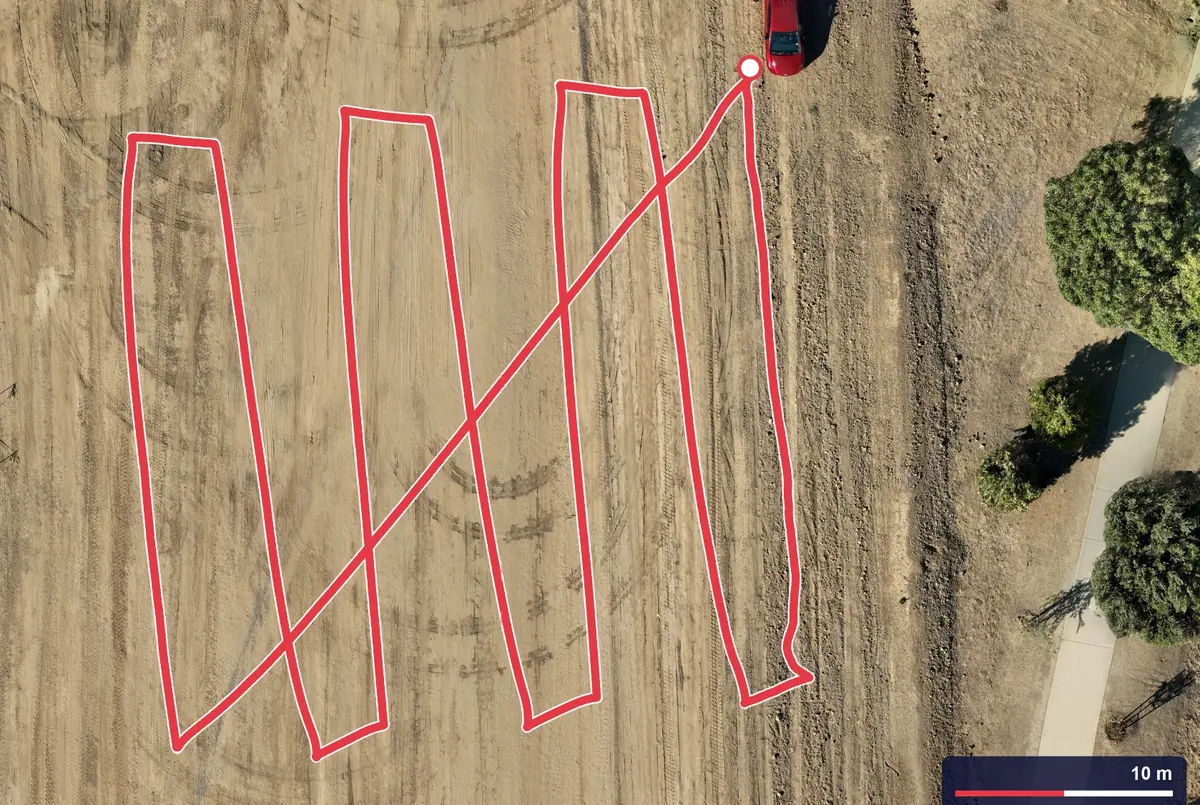
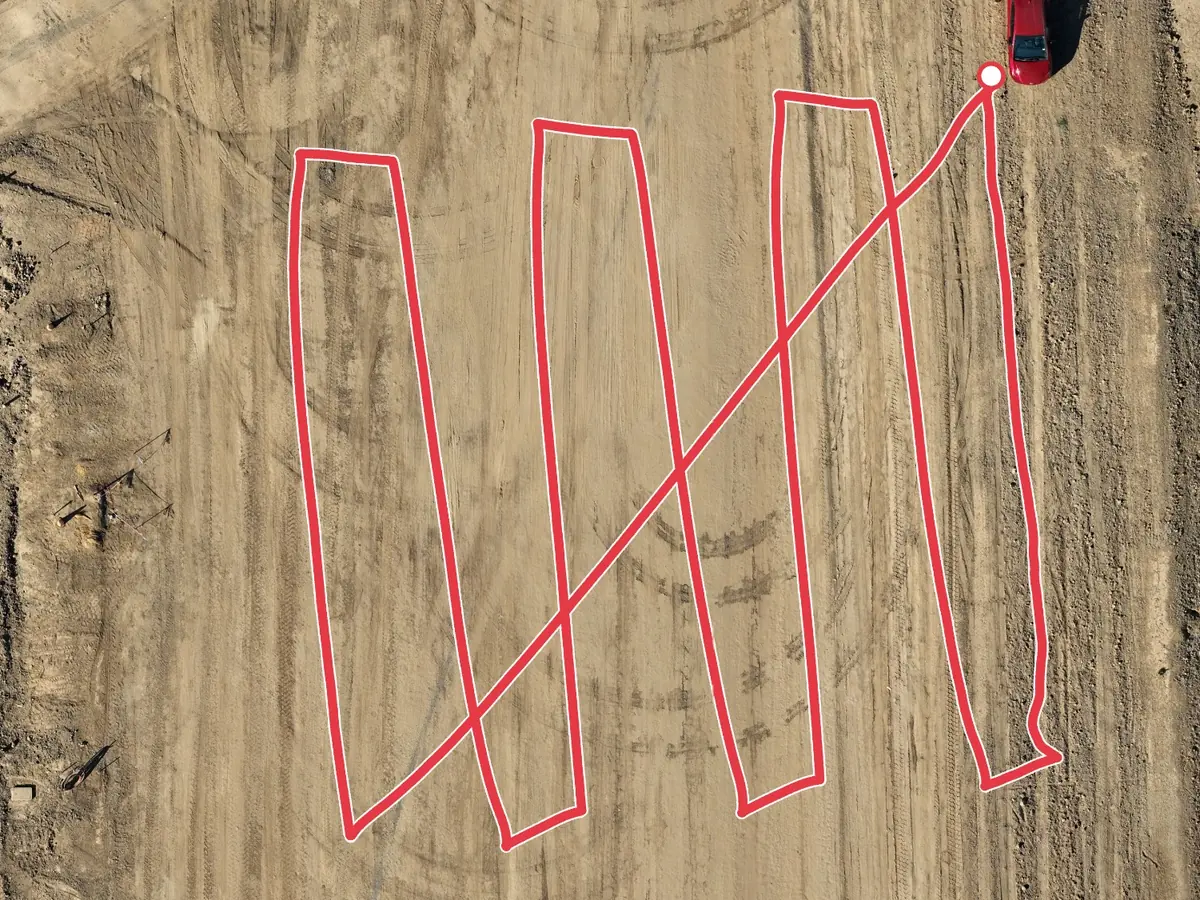
Make What we do mostly pictures
Same few sentences as before, no new information. Under them: the deck's
"one operator, many rovers" drawing in both halves (today against FRANK),
then two photographs, the test rover and the DEMO-1 survey track, each
with a red title and one line.

Claude-Session: https://claude.ai/code/session_015VctVZ6rm7wc8DrekM3xJw

diff --git a/what/index.html b/what/index.html
@@ -22,7 +22,7 @@
 <link rel="preconnect" href="https://fonts.googleapis.com" />
 <link rel="preconnect" href="https://fonts.gstatic.com" crossorigin />
 <link href="https://fonts.googleapis.com/css2?family=Russo+One&family=Inter:wght@400;500;600;700&display=swap" rel="stylesheet" />
-<link rel="stylesheet" href="/css/site.css?v=4" />
+<link rel="stylesheet" href="/css/site.css?v=5" />
 </head>
 <body>
 
@@ -68,23 +68,46 @@
       </p>
     </div>
 
-    <div class="solution-grid reveal">
-      <div class="sol-card">
-        <img class="shot" src="/img/what/field-rover.webp" width="1200" height="1009" alt="The FRANK test rover on loose sand." />
-        <h3>FRANK</h3>
-        <div class="expand">Flexible Recurrent Active-memory Neural Kernel</div>
-        <p>A learned policy of about 1M parameters. Perception, localisation, hazard detection and planning on a Raspberry Pi 5, on 58 mW.</p>
+    <div class="subsection reveal">
+      <h3 class="subsection-title">One operator, many rovers</h3>
+      <div class="compare">
+        <figure>
+          <figcaption class="tag">Today: one control room per rover</figcaption>
+          <div class="diagram">
+            <img src="/img/what/one-control-room-per-rover.webp" width="845" height="518" alt="A drive team on Earth exchanging commands and images with a single rover on the Moon." />
+            <span class="place" style="left:16%; top:40%">Earth</span>
+            <span style="right:54%; top:50%">commands</span>
+            <span style="left:57%; top:50%">images</span>
+            <span class="place end" style="right:4%; top:51%">Moon</span>
+          </div>
+        </figure>
+        <figure>
+          <figcaption class="tag red">With FRANK: one operator for the fleet</figcaption>
+          <div class="diagram">
+            <img src="/img/what/one-operator-for-the-fleet.webp" width="844" height="518" alt="One operator on Earth sending a single command to five rovers on the Moon, each driving its own route." />
+            <span class="place" style="left:16%; top:40%">Earth</span>
+            <span class="hl" style="left:48%; top:35%">one command</span>
+            <span class="place end" style="right:4%; top:51%">Moon</span>
+          </div>
+        </figure>
       </div>
-      <div class="sol-card">
-        <img class="shot" src="/img/what/demo-1-survey-track.webp" width="1200" height="805" alt="Aerial view of a survey field with the rover's survey track drawn in red." />
-        <h3>DEMO-1</h3>
-        <p>Twelve field runs in October 2026. 1,827 m autonomous, with two complete surveys without GPS, both at night.</p>
-      </div>
-      <div class="sol-card">
-        <img class="shot" src="/img/what/one-operator-for-the-fleet.webp" width="844" height="518" alt="One operator on Earth sending a single command to five rovers on the Moon." />
-        <h3>ONE OPERATOR</h3>
-        <p>One command per traverse. The rover does not need the link to drive, so one operator can hold a fleet.</p>
-      </div>
+    </div>
+
+    <div class="shots reveal">
+      <figure class="shot">
+        <img src="/img/what/field-rover.webp" width="1200" height="1009" alt="The FRANK test rover on loose sand." />
+        <figcaption>
+          <h3>FRANK</h3>
+          <p>A learned policy of about 1M parameters, running on a Raspberry Pi 5.</p>
+        </figcaption>
+      </figure>
+      <figure class="shot">
+        <img src="/img/what/demo-1-survey-track.webp" width="1200" height="900" alt="Aerial view of a survey field with the rover's survey track drawn in red." />
+        <figcaption>
+          <h3>DEMO-1</h3>
+          <p>1,827 m driven autonomously in the field, with two complete surveys without GPS.</p>
+        </figcaption>
+      </figure>
     </div>
   </div>
 </section>

diff --git a/css/site.css b/css/site.css
@@ -242,55 +242,82 @@
 
   /* ========== PANELS ========== */
   /* One panel treatment for every card on the site. */
-  .sol-card, .member-card, .partner-card {
+  .member-card, .partner-card {
     background: rgba(20,23,74,0.78);
     border: 1px solid var(--panel-line);
     transition: background 0.2s, border-color 0.2s;
   }
-  .sol-card:hover, .member-card:hover, .partner-card:hover {
+  .member-card:hover, .partner-card:hover {
     background: var(--orbit-indigo);
     border-color: var(--rule);
   }
 
-  /* ========== SOLUTION CARDS ========== */
-  .solution-grid {
+  /* ========== WHAT WE DO ========== */
+  /* Mostly pictures: the deck's one-operator drawing, then two photographs. */
+
+  /* Today against FRANK, side by side, each under its tag. */
+  .compare {
     display: grid;
-    grid-template-columns: repeat(3, 1fr);
-    gap: 22px;
+    grid-template-columns: repeat(2, 1fr);
+    gap: 36px 48px;
   }
-  .sol-card { padding: 34px 30px 34px; }
-  /* The picture runs edge to edge across the top of the card. */
-  .sol-card .shot {
-    width: calc(100% + 60px);
+  .tag {
+    display: inline-block;
+    padding: 8px 14px 7px;
+    border: 1px solid var(--rule);
+    background: rgba(11,14,54,0.8);
+    color: var(--starlight);
+    font-family: var(--display);
+    font-size: 11px;
+    letter-spacing: 0.12em;
+    line-height: 1.3;
+    text-transform: uppercase;
+  }
+  .tag.red { background: var(--signal-red); border-color: var(--signal-red); color: var(--lunar-white); }
+
+  /* The drawing's labels are set in type over it, placed by percentage. */
+  .diagram { position: relative; margin-top: 14px; }
+  .diagram img { width: 100%; height: auto; }
+  .diagram span {
+    position: absolute;
+    font-size: clamp(10px, 1vw, 13px);
+    line-height: 1;
+    color: var(--starlight);
+    white-space: nowrap;
+  }
+  .diagram .hl { color: var(--lunar-white); }
+  .diagram .place {
+    font-family: var(--display);
+    font-size: clamp(9px, 0.8vw, 11px);
+    letter-spacing: 0.12em;
+    text-transform: uppercase;
+    transform: translateX(-50%);
+  }
+  .diagram .place.end { transform: none; }
+
+  /* Two photographs, each with a red title and one line. */
+  .shots {
+    display: grid;
+    grid-template-columns: repeat(2, 1fr);
+    gap: 40px 48px;
+    margin-top: 64px;
+  }
+  .shot img {
+    width: 100%;
     height: auto;
-    max-width: none;
-    margin: -34px -30px 28px;
-    aspect-ratio: 16 / 10;
+    aspect-ratio: 4 / 3;
     object-fit: cover;
-    border-bottom: 1px solid var(--panel-line);
+    border: 1px solid var(--panel-line);
   }
-  .sol-card h3 {
+  .shot h3 {
     font-family: var(--display);
     font-weight: 400;
     font-size: 22px;
-    color: var(--signal-red);
     letter-spacing: 0.05em;
-    margin-bottom: 14px;
+    color: var(--signal-red);
+    margin: 22px 0 8px;
   }
-  .sol-card .expand {
-    font-family: var(--display);
-    font-size: 10px;
-    letter-spacing: 0.12em;
-    line-height: 1.5;
-    text-transform: uppercase;
-    color: var(--slate);
-    margin: -8px 0 14px;
-  }
-  .sol-card p {
-    color: var(--starlight);
-    font-size: 15px;
-    line-height: 1.6;
-  }
+  .shot p { font-size: 16px; line-height: 1.6; color: var(--starlight); }
 
   /* ========== PEOPLE ========== */
   /* Every person - team, advisory board, research group - gets the same box:
@@ -559,7 +586,7 @@
     .nav-links { display: none; }
     .menu-toggle { display: block; }
     .nav-cta { display: none; }
-    .solution-grid { grid-template-columns: 1fr; }
+    .compare, .shots { grid-template-columns: 1fr; }
     .people-grid, .people-grid.three, .people-grid.trio { grid-template-columns: repeat(2, 1fr); }
     section { padding: 72px 0; }
     section.page { padding-top: 124px; }

diff --git a/index.html b/index.html
@@ -22,7 +22,7 @@
 <link rel="preconnect" href="https://fonts.googleapis.com" />
 <link rel="preconnect" href="https://fonts.gstatic.com" crossorigin />
 <link href="https://fonts.googleapis.com/css2?family=Russo+One&family=Inter:wght@400;500;600;700&display=swap" rel="stylesheet" />
-<link rel="stylesheet" href="/css/site.css?v=4" />
+<link rel="stylesheet" href="/css/site.css?v=5" />
 </head>
 <body>
 

diff --git a/research/index.html b/research/index.html
@@ -22,7 +22,7 @@
 <link rel="preconnect" href="https://fonts.googleapis.com" />
 <link rel="preconnect" href="https://fonts.gstatic.com" crossorigin />
 <link href="https://fonts.googleapis.com/css2?family=Russo+One&family=Inter:wght@400;500;600;700&display=swap" rel="stylesheet" />
-<link rel="stylesheet" href="/css/site.css?v=4" />
+<link rel="stylesheet" href="/css/site.css?v=5" />
 </head>
 <body>
 

diff --git a/team/index.html b/team/index.html
@@ -22,7 +22,7 @@
 <link rel="preconnect" href="https://fonts.googleapis.com" />
 <link rel="preconnect" href="https://fonts.gstatic.com" crossorigin />
 <link href="https://fonts.googleapis.com/css2?family=Russo+One&family=Inter:wght@400;500;600;700&display=swap" rel="stylesheet" />
-<link rel="stylesheet" href="/css/site.css?v=4" />
+<link rel="stylesheet" href="/css/site.css?v=5" />
 </head>
 <body>
 

diff --git a/README.md b/README.md
@@ -25,7 +25,7 @@ js/site.js           Menu toggle, scroll reveal, mailto clipboard fallback
 img/brand/           Logo, favicon, OG card, star tile, mesh scenes
 img/people/          Team, advisory board and research group headshots
 img/partners/        Partner logos
-img/what/            The three card pictures on the What we do page
+img/what/            The pictures on the What we do page, taken from the deck
 tools/               render_scenes.py, which draws the mesh scenes
 CNAME                Custom domain for GitHub Pages
 .nojekyll            Serve files as-is, no Jekyll processing
